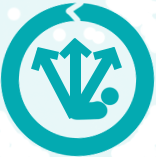
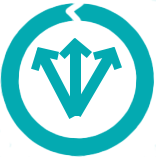
hover em knowledges

diff --git a/style.css b/style.css
@@ -250,7 +250,7 @@ main h3{
     margin-left: -353px;
     margin-top: -37px;
 }
-.what-thumbs-1{
+.what-thumbs{
     display:flex;
     width: 1000px;
     height: 350px;
@@ -260,25 +260,68 @@ main h3{
 .thumb-block{
     display:flex;
     flex-direction: column;
-    width:200px;
+    width:200px; 
+    height:200px;
     justify-content: center;
     align-items: center;
-    height:200px;
     margin-top: 50px;
     border-radius: 15px;
     background-color: #212832;
+    overflow-y: hidden;
     box-shadow: inset 2px 4px rgb(48, 48, 48);
     cursor: pointer;
 }
-.thumb-block:hover{
-    transition: ease 200ms;
-    background-color: #393d46;
-}
+/* .thumb-block:hover .knowledges-popup{
+    animation: slide-up forwards ease 240ms;
+} */
 .thumb-block img{
     width: 80px;
 }
 .thumb-block p{
-    font-size: 15px;
+    font-stretch: condensed;
+    font-size: 14px;
+}
+.knowledges-popup{
+    background-color: #393d46f5;
+    opacity:0;
+    background-image: linear-gradient(#00adb4, #212832), url('./img/knowledges-thumb.webp');
+    background-repeat: no-repeat;
+    background-blend-mode: color;
+    background-size: cover;
+    position:absolute;
+    display:flex;
+    flex-direction: column;
+    justify-content: center;
+    align-items: center;
+    width: 200px;
+    height: 200px;
+    border-radius: 15px;
+    padding: 10px;
+}
+.knowledges-popup p{
+    display:block;
+    color:#dbebeb;
+    font-size: large;
+}
+.thumb-block:hover .knowledges-popup{
+    transition: all ease 340ms;
+    animation: slide-up forwards ease 340ms;
+}
+
+@keyframes slide-up{
+    0%{
+        height:0; width: 0;
+        transform: translateY(100px);
+        opacity:0;
+    }
+    40%{
+        height:0; width: 30px;
+    }
+    100%{
+        height:200px;
+        transform:translateY(0px); 
+        opacity:1;
+    }
 }
 
 
@@ -484,7 +527,7 @@ main h3{
 }
 .recent-title h2{
     position:relative;
-    color: #343944;
+    color: #464d5a;
     font-weight: 800;
     text-align: center;
     z-index: 9;
@@ -530,9 +573,18 @@ main h3{
     top: -36px;
     opacity:0;
 }
-.recent-thumbs-block p:hover{
-    transition: ease 400ms;
-    opacity:1;
+.recent-thumbs-block:hover p{
+    animation:forwards slide 299ms ;
+}
+@keyframes slide{
+    from{
+        opacity:0;
+        transform: translateY(36px);
+    }
+    to{
+        opacity:1;
+        transform:translateY(0px);
+    }
 }
 .sombra1{
     width: 600px;
@@ -545,6 +597,7 @@ main h3{
 /* C O N T A C T   M E  */
 .contact, .contact-title{
     display:flex;
+    position:relative;
     flex-direction: column;
     width:1000px;
     height: 237px;
@@ -564,8 +617,8 @@ main h3{
     color: #dff0f6;
     position: relative;
     font-weight: 600;
-    text-align: center;    
-    margin-top: -55px;
+    text-align: center;
+    margin-top: -168px;
     z-index: 10;
 }
 .contact-title h2{
@@ -582,33 +635,54 @@ main h3{
     text-shadow: 2px 2px 6px rgb(22, 22, 22);
 }
 .contact img{
+    position:absolute;
+    display:inline;
+    margin:0 auto;
     width: 412px;
     height: 327px;
-    margin: -140px 312px -66px;
+    top:-2rem;
+    left:33vw;
 }
+
 .contact-email{
     display: flex;
+    margin: 0 auto;
     position: relative;
-    justify-content: center;
-    top: -106px;
+    left: -33px;
+    top: -43px;
+    width: 200px;
 }
-.contact-phone{
-    display: flex;
+.contact-email p{
     position: relative;
-    justify-content: center;
-    top: -69px;
+    width: 300px;
+    left: 0px;
+    top: 0px;
 }
 .contact-email img{
-    position:relative;
-    display:flex;
-    width:20px;
+    position: relative;
+    margin: 0 auto;
+    display: flex;
+    width: 20px;
     height: 20px;
-    top: -20px;
+    left: 0px;
+    top: 2px;
+    margin-right: 10px;
+}
+
+.contact-phone{
+    display: flex;
+    margin: 0 auto;
+    position: relative;
+    left: -23px;
+    top: -17px;
+    width: 200px;
 }
 .contact-phone img{
-    display:flex;
-    position:relative;
-    width:20px;
+    position: relative;
+    margin: 0 auto;
+    display: flex;
+    width: 20px;
     height: 20px;
-    top: -20px;
+    left: 11px;
+    top: 2px;
 }

diff --git a/index.html b/index.html
@@ -65,18 +65,33 @@
             <h2>Knowledges</h2>
         </div>
     </section>
-    <div class="what-thumbs-1">
-        <div class="thumb-block">
+
+    <div class="what-thumbs">
+        <div class="thumb-block" id="know-front">
             <img src="./img/html-icon.png" alt="">
             <p>Frontend Designer</p>
+            <div class="knowledges-popup" id="know-front-popup">
+                <p>HTML</p>
+                <p>CSS</p>
+                <p>Javascript</p>
+            </div>
         </div>
-        <div class="thumb-block">
+        <div class="thumb-block" id="know-social">
             <img src="./img/social-media-icon.png" alt="">
             <p>Social Media</p>
+            <div class="knowledges-popup" id="know-social-popup">
+                <p>Photoshop</p>
+                <p>After Effects</p>
+                <p>Premiere</p>
+            </div>
         </div>
-        <div class="thumb-block">
+        <div class="thumb-block" id="know-dev">
             <img src="./img/js-icon.png" alt="">
             <p>Programmer</p>
+            <div class="knowledges-popup" id="know-dev-popup">
+                <p>Delphi</p>
+                <p>VBA</p>
+            </div>
         </div>
         
     </div>
@@ -175,18 +190,19 @@
             <h1>Contact Me</h1>
             <h2>Contact Me</h2>
         </div>
-        <img src="./img/contact.png" alt="">
+        <img src="./img/losango.png" alt="">
         <div class="contact-email">
-            <!-- <img src="./img/email-icon.png" alt=""> -->
+            <img src="./img/email-icon.png" alt="">
             <p>leandro.713@hotmail.com</p> 
             
         </div>
         <div class="contact-phone">
-            <!-- <img src="./img/whats-icon.png" alt=""> -->
+            <img src="./img/whats-icon.png" alt="">
             <p>(51) 996-566-771</p> 
         </div>
 
     </section>
-
+    
+    <script src="./script.js"></script>
 </body>
 </html>

diff --git a/script.js b/script.js
@@ -1,0 +1,15 @@
+let _front = document.querySelector("#know-front");
+let _social = document.querySelector("#know-social");
+let _dev = document.querySelector("#know-dev");
+let _front_popup = document.querySelector("#know-front-popup");
+let _social_popup = document.querySelector("#know-social-popup");
+let _dev_popup = document.querySelector("#know-dev-popup");
+//"know-front" "know-social" "know-dev"
+_front.addEventListener('mouseenter',()=>{
+    console.log("entrou em frontend");
+
+})
+_front.addEventListener('mouseleave',()=>{
+    console.log("saiu em frontend");
+    
+})
